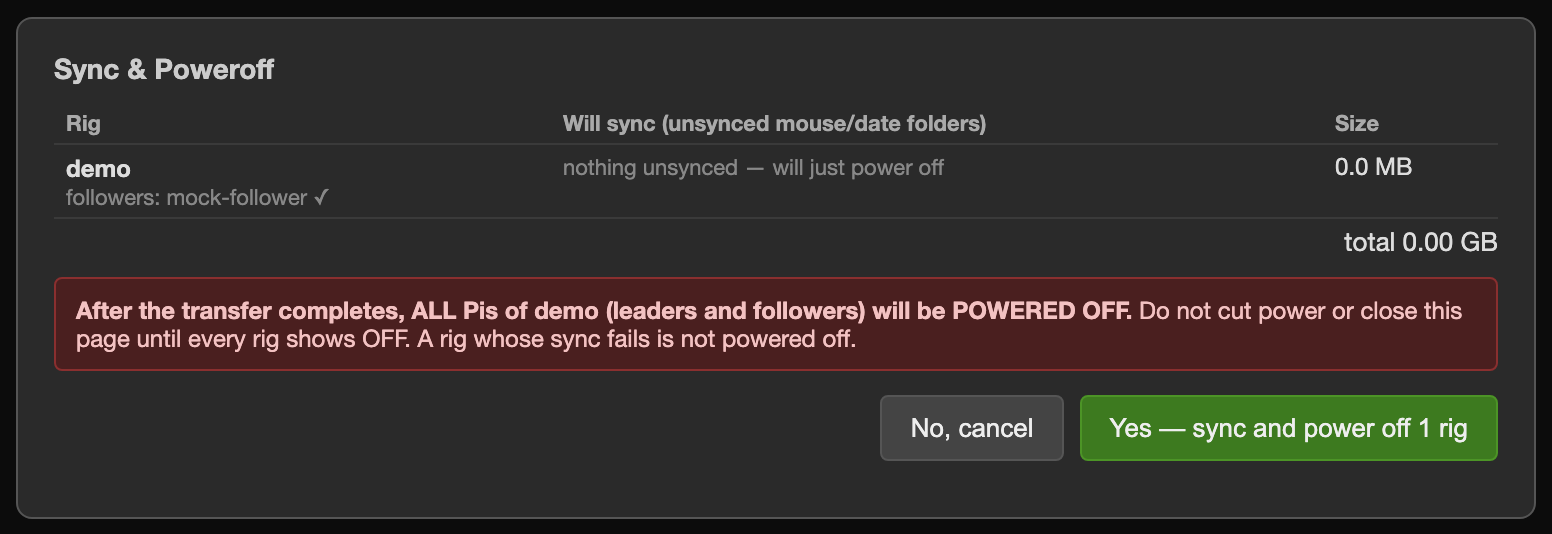
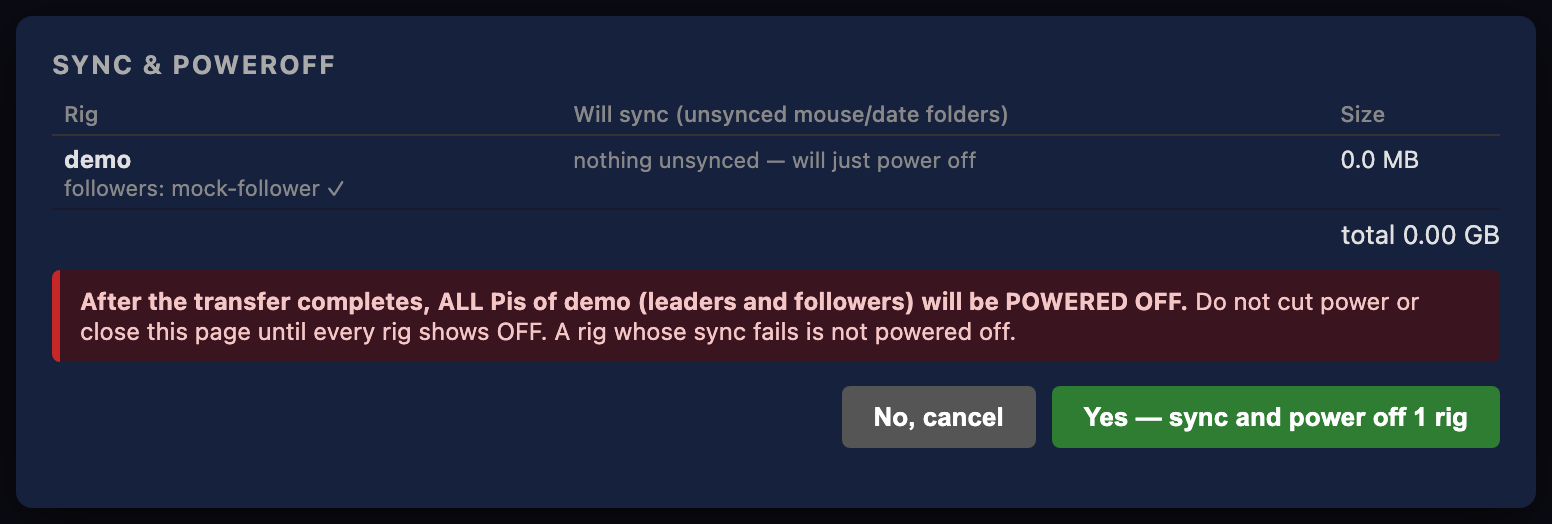
controller: shell, Network and Data pages use the Setup/Experiment palette
The shared stylesheet had its own grey palette, bordered cards and button colours, so
the three new views looked like a different app next to the two original pages. It now
carries exactly the values those pages define inline: navy page (#1a1a2e), card
(#16213e), panel/input (#0f3460), grey uppercase letter-spaced headings, the
blue/green/red/teal/yellow button set with the same disabled/hover opacity, 8 px status
dots (#4caf50 / #f44336 / #f9a825), #0a0a1a log boxes, the phase-pill colours for
badges, and the toggle switch verbatim. The rail is card-coloured with the active tab in
panel blue and a green accent; rig sub-tabs reuse the Setup page's device-tab look; the
Data rig cards are pi-cards. Screenshots regenerated.

diff --git a/controller/static/common.css b/controller/static/common.css
@@ -1,40 +1,71 @@
-/* controller/static/common.css — shared look for the shell and the new tab pages.
-   The toggle switch is the one from the old setup page (Slack / Monitor). */
+/* controller/static/common.css — the palette and components the Setup and Experiment pages
+   define inline, lifted out so the shell and the Network / Data pages look like the same app:
+   navy page (#1a1a2e), card (#16213e), panel/input (#0f3460), grey uppercase headings, the
+   blue/green/red/teal button set, 8 px status dots, #0a0a1a log boxes, the toggle switch. */
 :root {
-  --bg: #1e1e1e; --bg2: #262626; --card: #2a2a2a; --line: #3a3a3a; --text: #ddd; --muted: #888;
-  --green: #7ac142; --red: #e05c5c; --amber: #e0a83c; --blue: #4a90d9; --teal: #3fb6a8;
+  --bg: #1a1a2e; --card: #16213e; --panel: #0f3460; --ink: #e0e0e0; --muted: #888; --line: #333;
+  --blue: #1a73e8; --green: #2e7d32; --red: #c62828; --orange: #e65100; --teal: #00796b; --yellow: #f9a825;
+  --ok: #4caf50; --bad: #f44336; --log: #0a0a1a;
 }
-* { box-sizing: border-box; }
-body { margin: 0; background: var(--bg); color: var(--text);
-       font-family: -apple-system, "Helvetica Neue", Arial, sans-serif; font-size: 13px; }
-h1, h2, h3 { margin: 0 0 8px; font-weight: 600; }
-h3 { font-size: 13px; color: #ccc; }
+* { box-sizing: border-box; margin: 0; padding: 0; }
+body { font-family: -apple-system, BlinkMacSystemFont, "Segoe UI", sans-serif;
+       background: var(--bg); color: var(--ink); font-size: 13px; }
+h1 { font-size: 18px; margin-bottom: 12px; color: #fff; }
+h3 { font-size: 13px; margin-bottom: 6px; color: #aaa; text-transform: uppercase; letter-spacing: 1px; }
 a { color: var(--blue); }
-.card { background: var(--card); border: 1px solid var(--line); border-radius: 6px; padding: 10px 12px; margin-bottom: 12px; }
+code { font-family: monospace; font-size: 12px; color: #bcd; }
+
+.card { background: var(--card); border-radius: 8px; padding: 14px; margin-bottom: 12px; }
+.panel { background: var(--panel); border-radius: 6px; padding: 10px 12px; }      /* = .pi-card */
 .muted { color: var(--muted); font-size: 11px; }
-.btn { background: #444; color: #eee; border: 1px solid #555; border-radius: 4px; padding: 5px 10px;
-       font-size: 12px; cursor: pointer; }
-.btn:hover { background: #505050; }
-.btn:disabled { opacity: 0.45; cursor: not-allowed; }
-.btn-sm { padding: 3px 7px; font-size: 11px; }
-.btn-green { background: #3d7a1f; border-color: #4c9426; }
-.btn-red { background: #8a2f2f; border-color: #a33a3a; }
-.btn-blue { background: #2f5f9a; border-color: #3a74bd; }
-.btn-teal { background: #2a7a72; border-color: #33978c; }
-input[type=text], input[type=number], select, textarea {
-  background: #1a1a1a; color: #ddd; border: 1px solid #444; border-radius: 3px; padding: 4px 6px; font-size: 12px; }
+
+label { display: block; font-size: 11px; color: #888; margin-bottom: 2px; margin-top: 6px; }
+select, input[type=text], input[type=number], textarea {
+  width: 100%; padding: 5px 8px; border: 1px solid #333; border-radius: 4px;
+  background: var(--panel); color: var(--ink); font-size: 13px; }
 input:disabled, select:disabled { opacity: 0.5; }
-label { font-size: 11px; color: #aaa; display: block; margin: 6px 0 2px; }
-table { border-collapse: collapse; width: 100%; }
-th, td { text-align: left; padding: 4px 6px; border-bottom: 1px solid var(--line); font-size: 12px; vertical-align: top; }
-th { color: #aaa; font-weight: 600; font-size: 11px; }
 
-/* status dots */
-.dot { display: inline-block; width: 9px; height: 9px; border-radius: 50%; background: #666; vertical-align: middle; margin-right: 4px; }
-.dot-green { background: var(--green); } .dot-red { background: var(--red); }
-.dot-amber { background: var(--amber); } .dot-grey { background: #666; } .dot-blue { background: var(--blue); }
+.btn { padding: 6px 14px; border: none; border-radius: 4px; cursor: pointer;
+       font-size: 12px; font-weight: 600; transition: opacity 0.2s; background: #555; color: #fff; }
+.btn:disabled { opacity: 0.3; cursor: not-allowed; }
+.btn:hover:not(:disabled) { opacity: 0.85; }
+.btn-blue { background: var(--blue); color: #fff; }
+.btn-green { background: var(--green); color: #fff; }
+.btn-red { background: var(--red); color: #fff; }
+.btn-orange { background: var(--orange); color: #fff; }
+.btn-teal { background: var(--teal); color: #fff; }
+.btn-yellow { background: var(--yellow); color: #000; }
+.btn-gray { background: #555; color: #fff; }
+.btn-sm { padding: 3px 10px; font-size: 11px; }
+.btn-row { display: flex; gap: 6px; flex-wrap: wrap; margin-top: 8px; }
 
-/* the toggle switch (from setup.html) */
+table { border-collapse: collapse; width: 100%; font-size: 12px; }
+th { text-align: left; padding: 4px 6px; color: #888; border-bottom: 1px solid #333; font-weight: 500; font-size: 11px; }
+td { padding: 4px 6px; border-bottom: 1px solid #1a1a2e; vertical-align: top; }
+tbody tr:hover td { background: var(--panel); }
+
+/* status dots — the same class names and colours as the Setup / Experiment pages */
+.status-dot, .dot { display: inline-block; width: 8px; height: 8px; border-radius: 50%; margin-right: 4px;
+                    background: #666; vertical-align: middle; }
+.dot-green { background: var(--ok); }
+.dot-red { background: var(--bad); }
+.dot-gray, .dot-grey { background: #666; }
+.dot-yellow, .dot-amber { background: var(--yellow); }
+.dot-blue { background: var(--blue); }
+
+/* chips (device names) and phase badges (the phase-bar pill colours) */
+.chip { display: inline-block; padding: 2px 8px; border-radius: 10px; font-size: 11px; margin: 2px; background: #333; color: #ccc; }
+.chip.enabled { background: var(--green); color: #fff; }
+.badge { display: inline-block; padding: 2px 8px; border-radius: 10px; font-size: 10px; font-weight: 700;
+         background: #333; color: #888; vertical-align: middle; }
+.badge-setup { background: #333; color: #888; }
+.badge-connected { background: var(--blue); color: #fff; }
+.badge-deployed { background: var(--yellow); color: #000; }
+.badge-running { background: var(--green); color: #fff; }
+.badge-ended { background: var(--teal); color: #fff; }
+.badge-offline { background: #555; color: #ddd; }
+
+/* the toggle switch (ON = green / OFF = grey), verbatim from the Setup page */
 .toggle { position: relative; display: inline-block; width: 44px; height: 18px; flex: none; vertical-align: middle; }
 .toggle input { position: absolute; opacity: 0; width: 0; height: 0; }
 .toggle .track { position: absolute; inset: 0; cursor: pointer; border-radius: 9px; background: #b8b8b8; transition: background 0.15s; }
@@ -47,23 +78,18 @@ th { color: #aaa; font-weight: 600; font-size: 11px; }
 .toggle input:checked + .track::after { content: "ON"; left: 6px; right: auto; }
 .toggle input:disabled + .track { opacity: 0.45; cursor: not-allowed; }
 
-/* modal */
+/* modal dialogs */
 .modal-bg { position: fixed; inset: 0; background: rgba(0,0,0,0.6); display: flex; align-items: center; justify-content: center; z-index: 50; }
-.modal { background: var(--card); border: 1px solid #555; border-radius: 8px; padding: 16px 18px; min-width: 420px; max-width: 760px; max-height: 85vh; overflow: auto; }
-.modal h3 { font-size: 14px; }
-.modal .warn { background: #4a1f1f; border: 1px solid #8a2f2f; color: #f3c2c2; padding: 8px 10px; border-radius: 4px; margin: 10px 0; font-size: 12px; }
-.modal .note { background: #3a3417; border: 1px solid #6a5f2a; color: #f0dca0; padding: 8px 10px; border-radius: 4px; margin: 10px 0; font-size: 12px; }
+.modal { background: var(--card); border-radius: 8px; padding: 16px 18px; min-width: 420px; max-width: 760px; max-height: 85vh;
+         overflow: auto; box-shadow: 0 8px 30px rgba(0,0,0,0.6); }
+.modal .warn { background: #3a1520; border-left: 4px solid var(--red); color: #f5c6c6; padding: 8px 10px; border-radius: 4px; margin: 10px 0; font-size: 12px; }
+.modal .note { background: #3a2e10; border-left: 4px solid var(--yellow); color: #f5e2a8; padding: 8px 10px; border-radius: 4px; margin: 10px 0; font-size: 12px; }
 .modal .actions { display: flex; gap: 8px; justify-content: flex-end; margin-top: 12px; }
 
-/* progress bar */
-.bar { background: #1a1a1a; border: 1px solid #444; border-radius: 3px; height: 12px; overflow: hidden; }
-.bar > span { display: block; height: 100%; background: var(--teal); width: 0; transition: width 0.3s; }
+/* progress bar (blue, like the session clocks) */
+.bar { background: var(--log); border-radius: 4px; height: 12px; overflow: hidden; }
+.bar > span { display: block; height: 100%; background: var(--blue); width: 0; transition: width 0.3s; }
 
-/* log box */
-.log { background: #111; border: 1px solid #333; border-radius: 4px; padding: 6px 8px; font-family: Menlo, monospace;
-       font-size: 11px; max-height: 240px; overflow: auto; white-space: pre-wrap; }
-.chip { display: inline-block; background: #3a3a3a; border-radius: 10px; padding: 1px 7px; font-size: 10px; margin: 1px 2px; color: #ccc; }
-.badge { display: inline-block; border-radius: 3px; padding: 0 5px; font-size: 10px; font-weight: 600; color: #111; background: #888; }
-.badge-setup { background: #888; } .badge-connected { background: var(--blue); color: #fff; }
-.badge-deployed { background: var(--amber); } .badge-running { background: var(--green); }
-.badge-ended { background: var(--teal); color: #fff; } .badge-offline { background: #444; color: #bbb; }
+/* log box — same as #log on the two pages */
+.log { background: var(--log); border-radius: 4px; padding: 8px; font-family: monospace; font-size: 11px;
+       max-height: 200px; overflow-y: auto; color: #888; white-space: pre-wrap; }

diff --git a/controller/templates/shell.html b/controller/templates/shell.html
@@ -7,38 +7,42 @@
 <style>
   html, body { height: 100%; overflow: hidden; }
   #app { display: flex; height: 100vh; }
-  #rail { width: 140px; flex: none; background: #151515; border-right: 1px solid #333; display: flex; flex-direction: column; }
-  #rail .brand { padding: 14px 12px 10px; font-weight: 700; font-size: 15px; color: #fff; letter-spacing: 0.3px; }
-  #rail .brand small { display: block; font-weight: 400; font-size: 10px; color: #777; }
-  .tab { padding: 18px 14px; font-size: 15px; font-weight: 600; color: #bbb; cursor: pointer; border-left: 4px solid transparent; }
-  .tab:hover { background: #1f1f1f; color: #fff; }
-  .tab.active { background: #262626; color: #fff; border-left-color: var(--green); }
-  .tab .sub { display: block; font-size: 10px; font-weight: 400; color: #777; margin-top: 2px; }
+  /* left rail: the card colour; the active tab is the panel colour with the green status accent */
+  #rail { width: 150px; flex: none; background: #16213e; display: flex; flex-direction: column; }
+  #rail .brand { padding: 14px 14px 10px; font-weight: 700; font-size: 18px; color: #fff; }
+  #rail .brand small { display: block; font-weight: 400; font-size: 10px; color: #888; text-transform: uppercase; letter-spacing: 1px; }
+  .tab { padding: 16px 14px; font-size: 14px; font-weight: 600; color: #bcd; cursor: pointer; border-left: 4px solid transparent; }
+  .tab:hover { background: #1c2a52; color: #fff; }
+  .tab.active { background: #0f3460; color: #fff; border-left-color: #4caf50; }
+  .tab .sub { display: block; font-size: 10px; font-weight: 400; color: #888; margin-top: 2px; }
   #rail .spacer { flex: 1; }
-  #rail .quit { margin: 10px; }
+  #rail .quit { margin: 10px 14px 14px; }
   #main { flex: 1; display: flex; flex-direction: column; min-width: 0; }
-  #substrip { display: none; align-items: center; gap: 4px; padding: 6px 10px; background: #202020; border-bottom: 1px solid #333; min-height: 40px; }
+  /* rig sub-tabs: the Setup page's device-tab look (chrome tabs over a panel-colour rule) */
+  #substrip { display: none; align-items: flex-end; gap: 4px; padding: 8px 12px 0; background: #1a1a2e; border-bottom: 2px solid #0f3460; min-height: 42px; }
   #substrip.show { display: flex; }
-  .rigtab { display: inline-flex; align-items: center; gap: 6px; padding: 5px 10px; border-radius: 5px 5px 0 0; background: #2a2a2a;
-            border: 1px solid #3a3a3a; border-bottom: none; cursor: pointer; font-size: 13px; color: #ccc; }
-  .rigtab.active { background: #333; color: #fff; border-color: #555; }
-  .rigtab .x { color: #777; font-size: 12px; padding: 0 2px; }
-  .rigtab .x:hover { color: #f66; }
-  .rigtab .info { font-size: 10px; color: #999; }
-  #loadmenu { position: relative; margin-left: 6px; }
-  #loadmenu .menu { display: none; position: absolute; top: 28px; left: 0; background: #2a2a2a; border: 1px solid #555; border-radius: 5px;
-                    min-width: 200px; z-index: 20; padding: 4px 0; box-shadow: 0 4px 16px rgba(0,0,0,0.5); }
+  .rigtab { display: inline-flex; align-items: center; gap: 6px; padding: 6px 12px; margin-bottom: -2px; border-radius: 8px 8px 0 0;
+            background: #16213e; border: 1px solid #0f3460; border-bottom: none; cursor: pointer; font-size: 12px; font-weight: 600; color: #bcd; }
+  .rigtab:hover { background: #1c2a52; }
+  .rigtab.active { background: #0f3460; color: #fff; }
+  .rigtab .x { color: #888; font-size: 12px; padding: 0 2px; font-weight: 400; }
+  .rigtab .x:hover { color: #f44336; }
+  .rigtab .info { font-size: 10px; font-weight: 400; color: #888; font-family: monospace; }
+  #loadmenu { position: relative; margin: 0 0 6px 8px; }
+  #loadmenu .menu { display: none; position: absolute; top: 28px; left: 0; background: #16213e; border: 1px solid #0f3460; border-radius: 6px;
+                    min-width: 220px; z-index: 20; padding: 4px 0; box-shadow: 0 6px 20px rgba(0,0,0,0.5); }
   #loadmenu.open .menu { display: block; }
-  .menu .hdr { padding: 4px 10px; font-size: 10px; color: #777; text-transform: uppercase; letter-spacing: 0.5px; }
-  .menu .item { padding: 5px 12px; cursor: pointer; font-size: 12px; color: #ddd; display: flex; justify-content: space-between; }
-  .menu .item:hover { background: #3a3a3a; }
-  .menu .item small { color: #777; }
+  .menu .hdr { padding: 5px 12px 3px; font-size: 10px; color: #888; text-transform: uppercase; letter-spacing: 1px; }
+  .menu .item { padding: 5px 12px; cursor: pointer; font-size: 12px; color: #e0e0e0; display: flex; justify-content: space-between; gap: 12px; }
+  .menu .item:hover { background: #0f3460; }
+  .menu .item small { color: #888; }
+  #substrip-hint { margin: 0 0 8px 10px; }
   #frames { flex: 1; position: relative; min-height: 0; }
-  #frames iframe { position: absolute; inset: 0; width: 100%; height: 100%; border: none; background: var(--bg); }
+  #frames iframe { position: absolute; inset: 0; width: 100%; height: 100%; border: none; background: #1a1a2e; }
   #frames iframe.hidden { visibility: hidden; }
-  #empty { position: absolute; inset: 0; display: flex; align-items: center; justify-content: center; color: #666; font-size: 14px; }
-  #toast { position: fixed; bottom: 14px; right: 14px; background: #3a1f1f; border: 1px solid #8a2f2f; color: #f3c2c2;
-           padding: 8px 12px; border-radius: 5px; font-size: 12px; display: none; z-index: 60; max-width: 420px; }
+  #empty { position: absolute; inset: 0; display: flex; align-items: center; justify-content: center; color: #888; font-size: 14px; }
+  #toast { position: fixed; bottom: 14px; right: 14px; background: #c62828; color: #fff; padding: 8px 12px; border-radius: 4px;
+           font-size: 12px; display: none; z-index: 60; max-width: 420px; }
 </style>
 </head>
 <body>
@@ -51,7 +55,7 @@
     <div class="tab" data-tab="data" onclick="showTab('data')">Data<span class="sub">sync, purge, power off</span></div>
     <div class="spacer"></div>
     <div id="fleet-summary" class="muted" style="padding:0 12px 8px"></div>
-    <button class="btn btn-sm quit" onclick="quitApp()" title="Stop the controller server">Quit server</button>
+    <button class="btn btn-sm btn-red quit" onclick="quitApp()" title="Stop the controller server">Quit server</button>
   </div>
   <div id="main">
     <div id="substrip">

diff --git a/controller/templates/data.html b/controller/templates/data.html
@@ -5,30 +5,31 @@
 <title>VRFarm — Data</title>
 <link rel="stylesheet" href="/static/common.css">
 <style>
-  body { padding: 14px 18px; overflow: auto; height: 100vh; }
-  .topbar { display: flex; align-items: center; gap: 10px; flex-wrap: wrap; margin-bottom: 10px; }
-  .topbar input[type=text] { min-width: 320px; flex: 1; }
-  .cards { display: grid; grid-template-columns: repeat(auto-fill, minmax(330px, 1fr)); gap: 12px; }
-  .rigcard { border: 1px solid var(--line); border-radius: 6px; background: var(--card); padding: 8px 10px; }
-  .rigcard.off { opacity: 0.6; }
-  .rigcard h3 { display: flex; align-items: center; gap: 8px; margin-bottom: 4px; }
+  body { padding: 16px; overflow: auto; height: 100vh; }
+  .topbar { display: flex; align-items: center; gap: 10px; flex-wrap: wrap; margin-bottom: 12px; }
+  .topbar select { width: auto; min-width: 200px; }
+  .topbar input[type=text] { min-width: 320px; flex: 1; width: auto; }
+  .cards { display: grid; grid-template-columns: repeat(auto-fill, minmax(340px, 1fr)); gap: 12px; }
+  .rigcard { background: #0f3460; border-radius: 6px; padding: 10px 12px; }      /* = .pi-card */
+  .rigcard.off { opacity: 0.55; }
+  .rigcard h3 { display: flex; align-items: center; gap: 8px; margin-bottom: 4px; text-transform: none; letter-spacing: 0; color: #fff; font-size: 14px; }
   .rigcard h3 input { transform: scale(1.2); }
-  .kv { font-size: 11px; color: #aaa; }
-  .kv b { color: #ddd; font-weight: 600; }
-  .folders { margin-top: 6px; max-height: 160px; overflow: auto; font-size: 11px; }
+  .kv { font-size: 11px; color: #888; }
+  .kv b { color: #e0e0e0; font-weight: 600; }
+  .folders { margin-top: 6px; max-height: 160px; overflow: auto; font-size: 11px; background: #16213e; border-radius: 4px; padding: 4px 6px; }
   .folders div { display: flex; justify-content: space-between; gap: 6px; padding: 1px 0; }
-  .g { color: var(--green); } .r { color: var(--red); } .y { color: var(--amber); } .x { color: #888; }
-  .actions { display: flex; gap: 10px; align-items: center; margin: 12px 0; flex-wrap: wrap; }
-  .actions .btn { padding: 8px 14px; font-size: 13px; }
-  #banner { display: none; background: #4a1f1f; border: 1px solid #8a2f2f; color: #f3c2c2; padding: 8px 10px; border-radius: 4px; margin-bottom: 10px; font-size: 12px; }
+  .g { color: #4caf50; } .r { color: #f44336; } .y { color: #f9a825; } .x { color: #888; }
+  .actions { display: flex; gap: 10px; align-items: center; margin: 14px 0; flex-wrap: wrap; }
+  .actions .btn { padding: 8px 16px; font-size: 13px; }
+  #banner { display: none; background: #3a1520; border-left: 4px solid #c62828; color: #f5c6c6; padding: 8px 10px; border-radius: 4px; margin-bottom: 12px; font-size: 12px; }
   #progress { display: none; }
-  .rigbar { display: grid; grid-template-columns: 110px 1fr 220px; gap: 8px; align-items: center; margin: 3px 0; font-size: 12px; }
-  select[multiple] { min-height: 160px; width: 100%; font-family: Menlo, monospace; font-size: 12px; }
-  option.g { color: #7ac142; } option.r { color: #ff7b7b; } option.x { color: #999; }
+  .rigbar { display: grid; grid-template-columns: 110px 1fr 240px; gap: 8px; align-items: center; margin: 3px 0; font-size: 12px; }
+  select[multiple] { min-height: 160px; width: 100%; font-family: monospace; font-size: 12px; }
+  option.g { color: #4caf50; } option.r { color: #f44336; } option.x { color: #888; }
 </style>
 </head>
 <body>
-<h2 style="font-size:16px; margin-bottom:8px">Data</h2>
+<h1>Data</h1>
 <div id="banner"></div>
 
 <div class="card topbar">

diff --git a/controller/templates/network.html b/controller/templates/network.html
@@ -5,30 +5,31 @@
 <title>VRFarm — Network</title>
 <link rel="stylesheet" href="/static/common.css">
 <style>
-  body { padding: 14px 18px; overflow: auto; height: 100vh; }
-  .cols { display: grid; grid-template-columns: 1.6fr 1fr; gap: 14px; align-items: start; }
+  body { padding: 16px; overflow: auto; height: 100vh; }
+  .cols { display: grid; grid-template-columns: 1.6fr 1fr; gap: 16px; align-items: start; }
   .topo { display: flex; flex-direction: column; align-items: center; gap: 8px; padding: 8px 0; }
-  .node { background: #222; border: 1px solid #555; border-radius: 6px; padding: 6px 12px; font-size: 12px; text-align: center; }
-  .node.ctl { border-color: var(--green); }
-  .switch { width: 70%; height: 18px; background: #333; border: 1px solid #666; border-radius: 3px; font-size: 10px; color: #aaa;
+  .node { background: #0f3460; border-radius: 6px; padding: 6px 12px; font-size: 12px; text-align: center; }
+  .node.ctl { border: 1px solid #4caf50; }
+  .switch { width: 70%; height: 18px; background: #0f3460; border: 1px solid #333; border-radius: 3px; font-size: 10px; color: #888;
             display: flex; align-items: center; justify-content: center; }
   .rigs { display: flex; gap: 10px; flex-wrap: wrap; justify-content: center; width: 100%; }
-  .rigbox { background: #262626; border: 1px solid #555; border-radius: 6px; padding: 6px 8px; min-width: 170px; }
-  .rigbox.loaded { border-color: var(--blue); }
-  .rigbox .name { font-weight: 600; color: #fff; display: flex; justify-content: space-between; gap: 6px; }
-  .pinode { background: #1c1c1c; border: 1px solid #444; border-radius: 4px; padding: 3px 6px; margin-top: 4px; font-size: 11px; }
-  .pinode .role { color: #999; font-size: 10px; }
+  .rigbox { background: #0f3460; border-radius: 6px; padding: 8px 10px; min-width: 170px; }
+  .rigbox.loaded { box-shadow: inset 3px 0 0 #1a73e8; }
+  .rigbox .name { font-weight: 700; color: #fff; font-size: 13px; display: flex; justify-content: space-between; gap: 6px; align-items: center; }
+  .pinode { background: #16213e; border-radius: 4px; padding: 4px 8px; margin-top: 6px; font-size: 11px; }
+  .pinode .role { color: #888; font-size: 10px; }
   .pirow { display: grid; grid-template-columns: 1.1fr 1.3fr 0.9fr 0.9fr 1.6fr auto; gap: 4px; align-items: center; margin-bottom: 4px; }
   .pirow input, .pirow select { width: 100%; }
-  .vline { width: 2px; height: 14px; background: #555; }
+  .vline { width: 2px; height: 14px; background: #333; }
   #drawer { display: none; }
   #drawer.open { display: block; }
   .grp { display: flex; align-items: center; gap: 6px; margin: 3px 0; font-size: 12px; }
-  .grp .members { color: #aaa; flex: 1; }
+  .grp .members { color: #888; flex: 1; }
+  #rigs-table td div { padding: 1px 0; }
 </style>
 </head>
 <body>
-<h2 style="font-size:16px; margin-bottom:10px">Network</h2>
+<h1>Network</h1>
 <div class="cols">
   <div>
     <div class="card">
